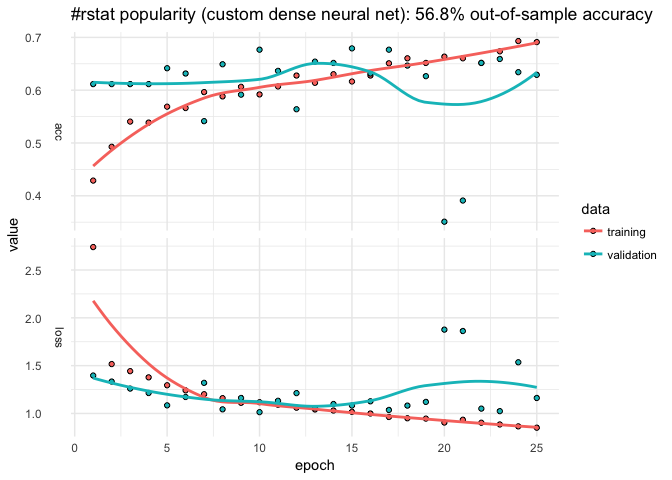
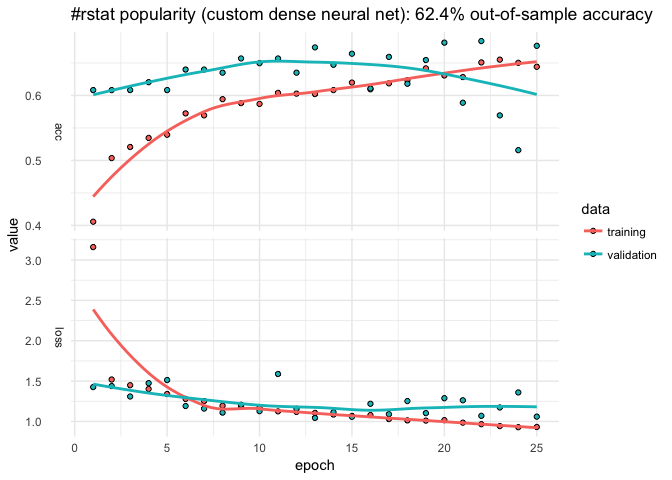
proofing...

diff --git a/mohanty_kerasformula.md b/mohanty_kerasformula.md
@@ -2,9 +2,9 @@ Analyzing rtweet data with kerasformula
 ================
 Pete Mohanty
 
-This document introduces `kms`, the main function of `library(kerasformula)`. Newly on `CRAN`, `kerasformula` offers a high-level interface for `keras`. Many classic machine learning tutorials assume that data come in a relatively homogenous form (e.g., pixels for digit recognition or counts or ranks words) which can make coding somewhat cumbersome when data come in a heterogenous data frame. `kms` takes advantage of the flexibility of R formulas to smooth this process.
+This document introduces `kms`, the main function of `library(kerasformula)`. Newly on `CRAN`, `kerasformula` offers a high-level interface for `library(keras)`. Many classic machine learning tutorials assume that data come in a relatively homogenous form (e.g., pixels for digit recognition or word counts or ranks) which can make coding somewhat cumbersome when data come in a heterogenous data frame. `kms` takes advantage of the flexibility of R formulas to smooth this process.
 
-`kms` builds dense neural nets and, after fitting them, returns a single object with predictions, measures of fit, and details about the function call. `kms` accepts a number of parameters including the loss and activation functions found in `library(keras)`. `kms` also accepts compiled `keras_model_sequential` objects allowing for even further customization. This little demo shows how `kms` can aid is model building and hyperparameter selection (e.g., batch size) starting with raw data from `rtweet` by @kearneymw.
+`kms` builds dense neural nets and, after fitting them, returns a single object with predictions, measures of fit, and details about the function call. `kms` accepts a number of parameters including the loss and activation functions found in `keras`. `kms` also accepts compiled `keras_model_sequential` objects allowing for even further customization. This little demo shows how `kms` can aid is model building and hyperparameter selection (e.g., batch size) starting with raw data gathered using `library(rtweet)`.
 
 To get going, make sure that `keras` and `retweet` configured.
 
@@ -15,12 +15,15 @@ install_keras()                        # first time only. see ?install_keras() f
 library(rtweet)                        # see https://github.com/mkearney/rtweet
 ```
 
-Let's look at \#rstats tweets (excluding retweets) as of January 15, 2018 at 16:15. This happens to give us a nice reasonable number of observations to work with in terms of runtime (and the purpose of this document is to show syntax, not build particularly predictive models).
+Let's look at \#rstats tweets (excluding retweets) as of January 16, 2018 at 16:47. This happens to give us a nice reasonable number of observations to work with in terms of runtime (and the purpose of this document is to show syntax, not build particularly predictive models).
 
 ``` r
 library(rtweet)
 rstats <- search_tweets("#rstats", n = 10000, include_rts = FALSE)
+dim(rstats)
 ```
+
+    [1] 2520   42
 
 Suppose our goal is to predict how popular tweets will be based on how often the tweet was retweeted and favorited (which correlate strongly).
 
@@ -28,13 +31,16 @@ Suppose our goal is to predict how popular tweets will be based on how often the
 cor(rstats$favorite_count, rstats$retweet_count, method="spearman")
 ```
 
-    [1] 0.7108667
+    [1] 0.7155409
 
-And let's suppose we are interested in putting tweets into categories based on popularity but we're not sure how finely-grained we want to make distinctions (a practical problem that turns out to have big implications for predictive accuracy). Since few tweeets go viral, the data are quite skewed towards zero.
+Since few tweeets go viral, the data are quite skewed towards zero.
 
-![](mohanty_kerasformula_files/figure-markdown_github-ascii_identifiers/unnamed-chunk-2-1.png)
+![](mohanty_kerasformula_files/figure-markdown_github-ascii_identifiers/densities-1.png)
 
-Some of the data, like `rstats$mentions_screen_name` comes in a list of varying lengths, so let's write a helper function to count non-NA entries.
+Getting the Most out of Formulas
+================================
+
+Let's suppose we are interested in putting tweets into categories based on popularity but we're not sure how finely-grained we want to make distinctions. Some of the data, like `rstats$mentions_screen_name` comes in a list of varying lengths, so let's write a helper function to count non-NA entries.
 
 ``` r
 n <- function(x){
@@ -49,13 +55,12 @@ Let's start with a dense neural net, the default of `kms`. We can use base R fun
 
 ``` r
 breaks <- c(-1, 0, 1, 10, 100, 1000, 10000)
-popularity <- kms("cut(retweet_count + favorite_count, breaks) ~  
-                          n(hashtags) + n(mentions_screen_name) + n(urls_url) +
-                          nchar(text) +
-                          screen_name + source +
+popularity <- kms("cut(retweet_count + favorite_count, breaks) ~ screen_name + source +  
+                          n(hashtags) + n(mentions_screen_name) + 
+                          n(urls_url) + nchar(text) +
                           grepl('photo', media_type) +
-                          weekdays(rstats$created_at) + 
-                          format(rstats$created_at, '%H')", rstats)
+                          weekdays(created_at) + 
+                          format(created_at, '%H')", rstats)
 plot(popularity$history) + ggtitle(paste("#rstat popularity:",
                                          paste0(round(100*popularity$evaluations$acc, 1), "%"),
                                          "out-of-sample accuracy")) + theme_minimal()
@@ -69,14 +74,14 @@ popularity$confusion
 
                    
                     (-1,0] (0,1] (1,10] (10,100] (100,1e+03] (1e+03,1e+04]
-      (-1,0]            36     1      1        0           0             0
-      (0,1]             77    19     18        2           0             0
-      (1,10]           154    13     38        9           0             0
-      (10,100]          54     4      7       44           0             0
-      (100,1e+03]        5     0      0        8           0             0
+      (-1,0]             8    20     19        0           0             0
+      (0,1]              5    31     71        0           0             0
+      (1,10]             3    10    174       13           0             0
+      (10,100]           0     0     54       49           0             0
+      (100,1e+03]        0     0      4        6           0             0
       (1e+03,1e+04]      0     0      0        0           0             0
 
-The model only classifies about 28% of the out-of-sample data correctly. The confusion matrix suggests that model does best with tweets that aren't retweeted but struggles with others. The `history` plot suggests that out of sample accuracy is not very stable. We can easily change the breakpoints and number of epochs.
+The model only classifies about 56% of the out-of-sample data correctly. The confusion matrix suggests that model does best with tweets that aren't retweeted but struggles with others. The `history` plot also suggests that out-of-sample accuracy is not very stable. We can easily change the breakpoints and number of epochs.
 
 ``` r
 breaks <- c(-1, 0, 1, 25, 50, 75, 100, 500, 1000, 10000)
@@ -85,8 +90,8 @@ popularity <- kms("cut(retweet_count + favorite_count, breaks) ~
                           nchar(text) +
                           screen_name + source +
                           grepl('photo', media_type) +
-                          weekdays(rstats$created_at) + 
-                          format(rstats$created_at, '%H')", rstats, Nepochs = 10)
+                          weekdays(created_at) + 
+                          format(created_at, '%H')", rstats, Nepochs = 10)
 plot(popularity$history) + ggtitle(paste("#rstat popularity (new breakpoints):",
                                          paste0(round(100*popularity$evaluations$acc, 1), "%"),
                                          "out-of-sample accuracy")) + theme_minimal()
@@ -102,8 +107,8 @@ pop_input <- "cut(retweet_count + favorite_count, breaks) ~
                           nchar(text) +
                           screen_name + source +
                           grepl('photo', media_type) +
-                          weekdays(rstats$created_at) + 
-                          format(rstats$created_at, '%H')"
+                          weekdays(created_at) + 
+                          format(created_at, '%H')"
 ```
 
 Here we use `paste0` to add to the formula by looping over user IDs adding something like:
@@ -111,16 +116,20 @@ Here we use `paste0` to add to the formula by looping over user IDs adding somet
     grepl(12233344455556, mentions_user_id)
 
 ``` r
-mentions <- unique(unlist(rstats$mentions_user_id))
+mentions <- unlist(rstats$mentions_user_id)
+mentions <- unique(mentions[which(table(mentions) > 4)]) # remove infrequent mentions
 mentions <- mentions[-1] # drop NA
 
 for(i in mentions)
   pop_input <- paste0(pop_input, " + ", "grepl(", i, ", mentions_user_id)")
 
-popularity <- kms(pop_input, rstats, Nepochs = 10)
+popularity <- kms(pop_input, rstats)
 ```
 
 ![](mohanty_kerasformula_files/figure-markdown_github-ascii_identifiers/mentionsplot-1.png)
+
+Customizing Layers with kms()
+=============================
 
 We could add more data, perhaps add individual words from the text or some other summary stat (`mean(text %in% LETTERS)` to see if all caps explains popularity). But let's alter the neural net.
 
@@ -130,7 +139,7 @@ The `input.formula` is used to create a sparse model matrix. For example, `rstat
 popularity$P
 ```
 
-    [1] 1786
+    [1] 1148
 
 Say we wanted to reshape the layers to transition more gradually from the input shape to the output.
 
@@ -167,9 +176,9 @@ colMeans(accuracy)
 ```
 
     Nbatch_16 Nbatch_32 Nbatch_64 
-    0.4960650 0.4101237 0.5561078 
+    0.3172499 0.5711682 0.4199070 
 
-For the sake of curtailing runtime, the number of epochs has been set arbitrarily short but, from those results, 64 is the best batch size.
+For the sake of curtailing runtime, the number of epochs has been set arbitrarily short but, from those results, 32 is the best batch size.
 
 Inputting a Compiled Keras Model
 ================================
